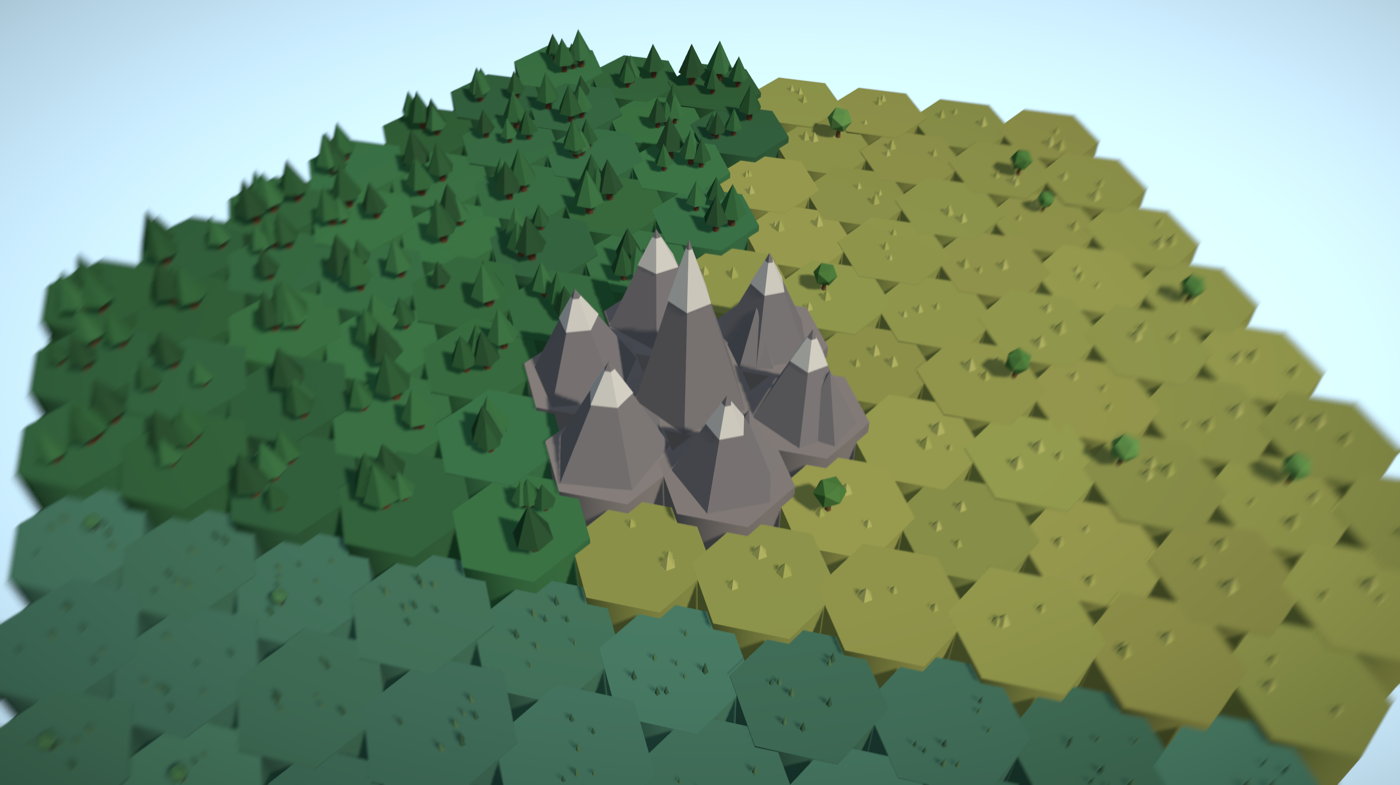
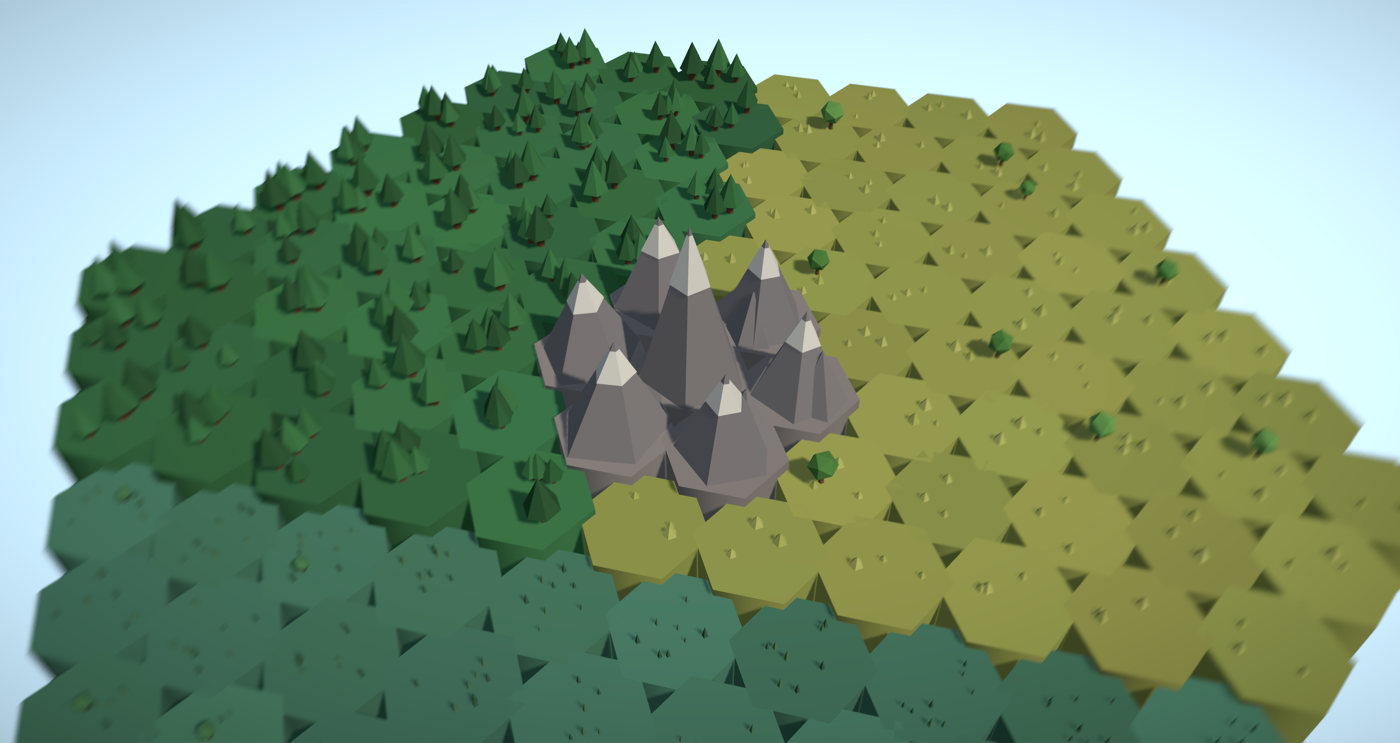
Graphics: constant per-biome cell heights — continuous surfaces, no tile lips
Per-cell height jitter made adjacent same-biome cells sit at slightly
different heights, so every tile showed a small cliff lip and shadow line
over its neighbor — read as misaligned/overlapping tiles up close. Heights
are now constant per biome: same-biome regions render as one continuous
surface and only biome boundaries step. Variation comes from color jitter
and decoration density instead. README screenshot refreshed.

diff --git a/src/render/cellVisuals.ts b/src/render/cellVisuals.ts
@@ -31,13 +31,14 @@ export function cellHash(id: number, salt: number): number {
   return ((h >>> 0) % 10000) / 10000;
 }
 
-/** Terrain column height for a cell — biome base + per-cell variation. */
-export function cellHeight(id: number, biome: string): number {
-  const base = BIOME_BASE_HEIGHTS[biome] ?? 0.3;
-  // Mountains are a constant plinth; the KayKit peak models on top provide
-  // the silhouette (tall bare columns read as buildings, not terrain).
+/** Terrain column height for a cell — constant per biome, so same-biome
+ * neighbors form one continuous surface with no lips or shadow seams between
+ * tiles (per-cell height jitter read as misaligned tiles up close). Variation
+ * comes from color jitter and decoration instead. Mountains are a constant
+ * plinth; the peak meshes on top provide the silhouette. */
+export function cellHeight(_id: number, biome: string): number {
   if (biome === 'mountain') return 0.5;
-  return base + (cellHash(id, 1) - 0.5) * 0.05;
+  return BIOME_BASE_HEIGHTS[biome] ?? 0.3;
 }
 
 /** Jittered position within a cell, keeping decorations off the rim. */